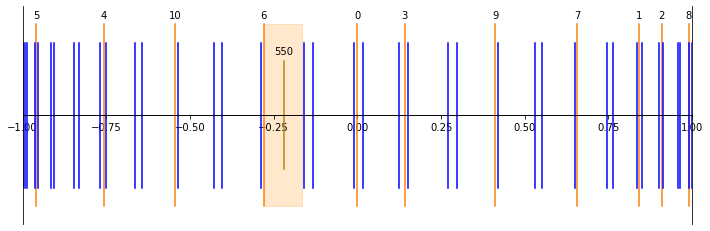
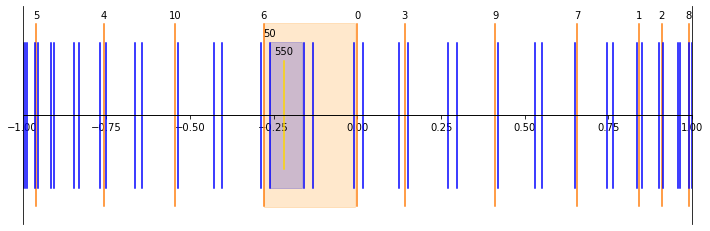
tweaked zone plotting and specific annotations according to mesh degree

Changed region(s): [[0.3718, 0.0909, 0.5268, 0.9091]]

diff --git a/plot.py b/plot.py
@@ -5,32 +5,42 @@ def approximate_mesh(deg1, deg2=None, vals=[], zones=[], filedir=None, filename=
     fig,ax = plt.subplots(figsize=(12,4))
     if not deg2:
         deg2 = deg1
-    for x in range(deg2):
+    for x in range(deg2+1):
         s = np.sin(x)
         if x <= deg1:
             # Plot coarser approximates
-            colorstyle = 'tab:orange'
+            color = 'tab:orange'
             h = 1.
             ax.annotate(str(x), (s,1.1), horizontalalignment="center", verticalalignment="center")
         else:
             # Plot finer approximates
-            colorstyle = 'b'
+            color = 'b'
             h = .8
-        ax.plot((s,s), (-h,h), colorstyle)
+        ax.plot((s,s), (-h,h), color)
+    # Shade zones
+    for a,b in zones:
+        if max(a,b) <= deg1:
+            color = 'darkorange'
+            hp = 0.0775
+        else:
+            color = 'mediumblue'
+            hp = 0.165
+        ax.axvspan(np.sin(a), np.sin(b)-0.007, ymin=hp, ymax=1.-hp, alpha=0.2, color=color)
     # Plot particular values
     for val in vals:
         s = np.sin(val)
-        ax.plot((s,s), (-0.6,0.6), 'darkgoldenrod')
-        ax.annotate(str(val), (s,0.7), horizontalalignment="center", verticalalignment="center")
+        if val > deg2:
+            ax.plot((s,s), (-0.6,0.6), 'gold')
+            h = 0.7
+        else:
+            h = 0.9
+        ax.annotate(str(val), (s,h), horizontalalignment="center", verticalalignment="center")
     # Manage plot
     ax.set_xlim(left=-1.,right=1.)
     ax.set_ylim(bottom=-1.2,top=1.2)
     ax.set_yticks([])
     ax.spines['bottom'].set_position('center')
     ax.spines['top'].set_position('center')
-    # Shade zones
-    for a,b in zones:
-        ax.axvspan(np.sin(a), np.sin(b)-0.007, ymin=0.08, ymax=0.92, alpha=0.2, color='darkorange')
     # Save figure
     if not filedir:
         filedir = './plots/'
